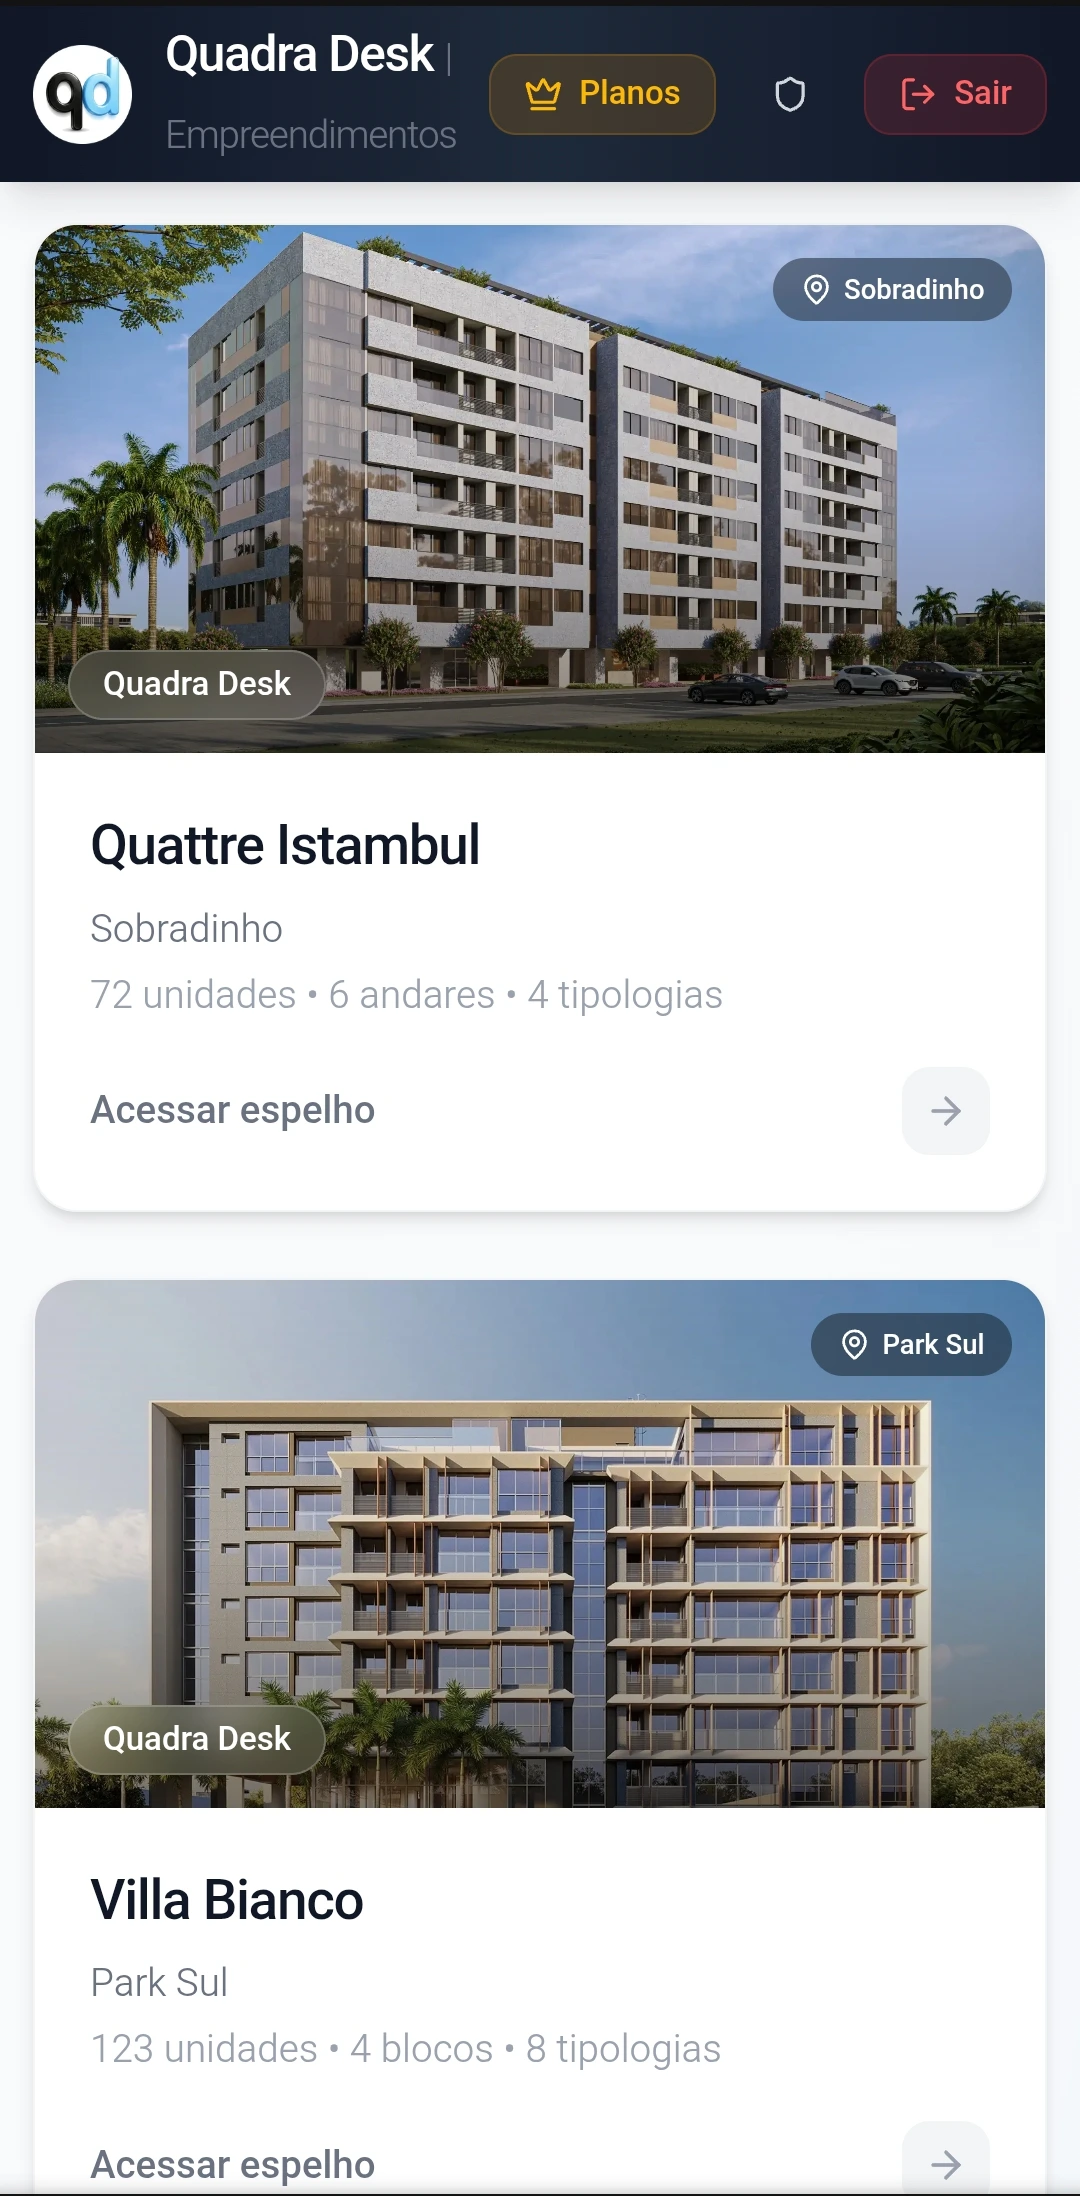
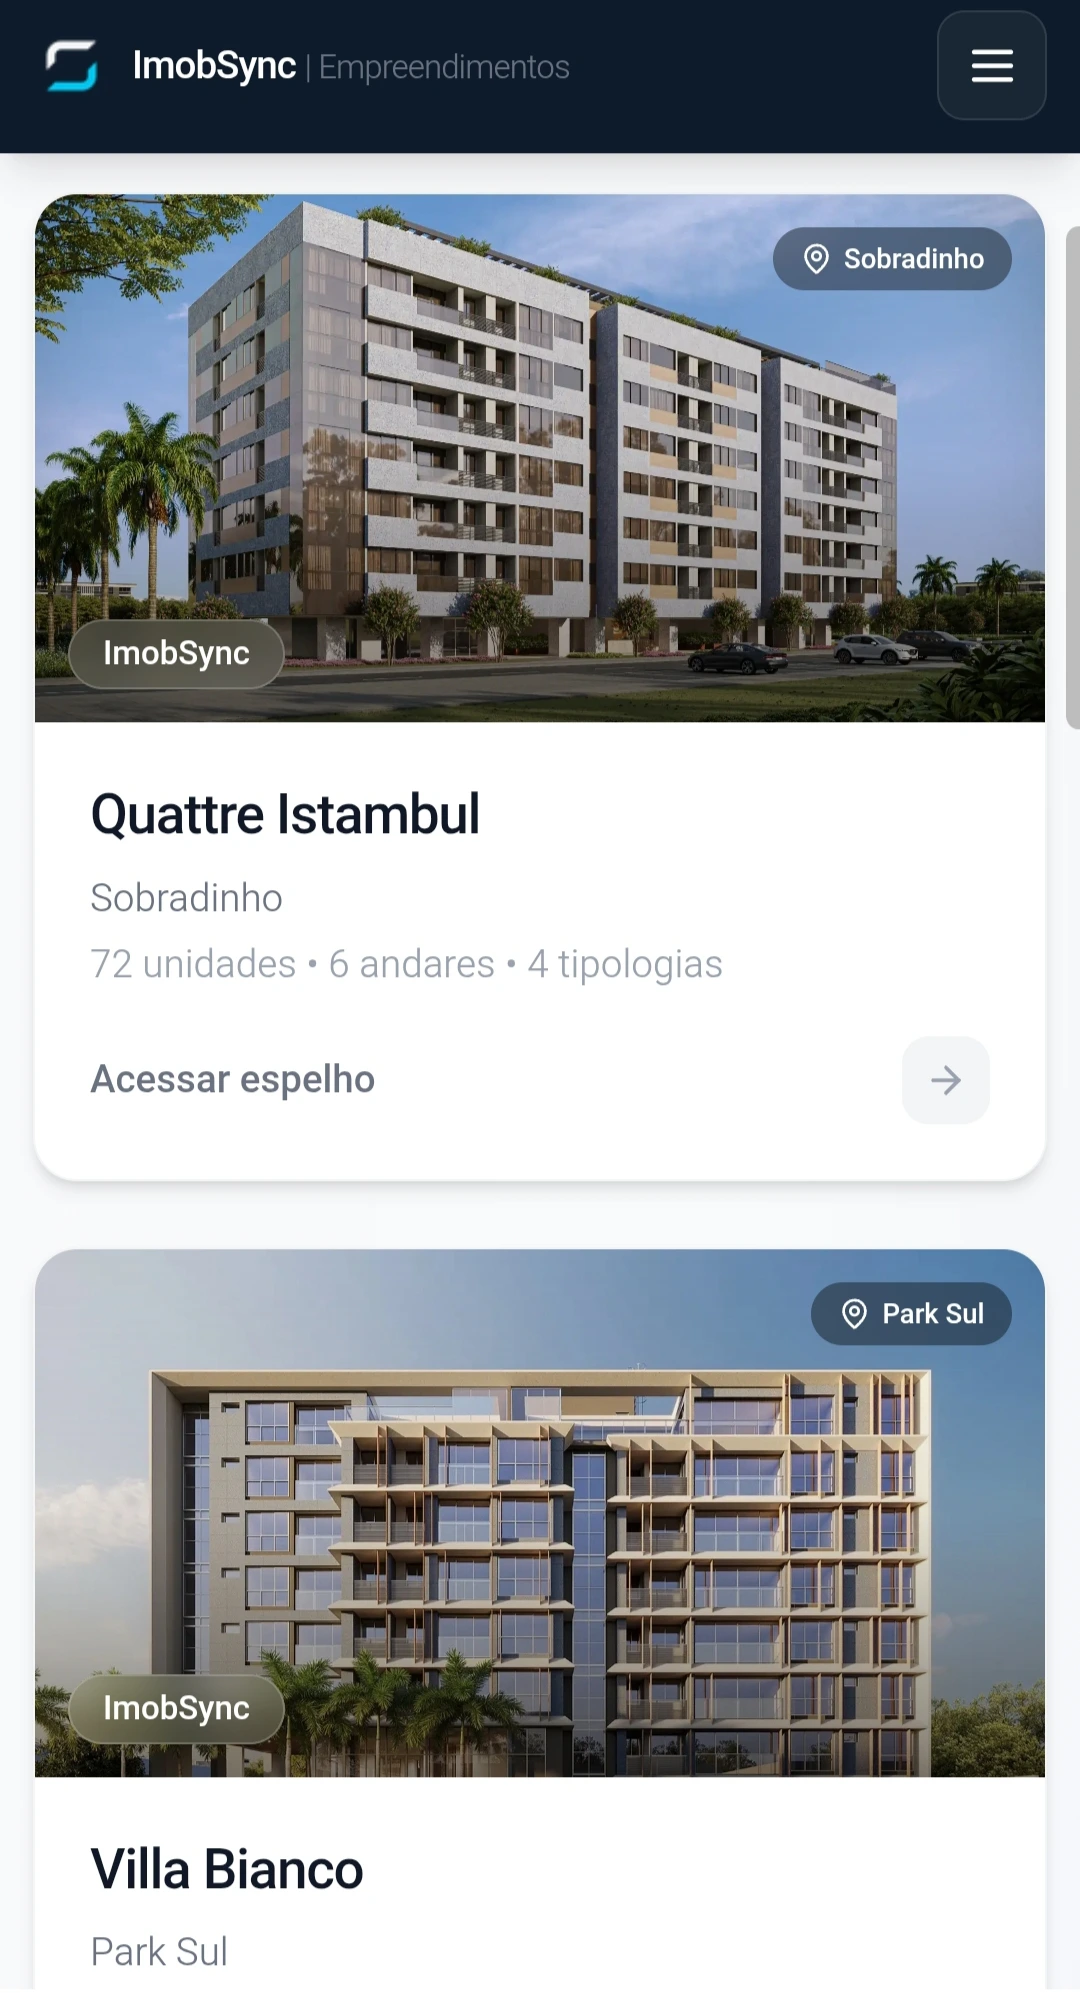
feat: update login page mock images and add 4th slide
- Replace desktop mocks with new webp versions
- Replace mobile mocks with updated versions
- Add 4th carousel slide (mobile - real-time sales management)
- Remove old .png desktop mock files

diff --git a/src/app/page.tsx b/src/app/page.tsx
@@ -18,7 +18,7 @@ import {
 const slides = [
   {
     type: "desktop" as const,
-    image: "/mock-desktop-01.png",
+    image: "/mock-desktop-01.webp",
     title: "Espelho de vendas atualizado em tempo real",
     desc: "Disponibilidade, status e preços de todas as unidades ao seu alcance, direto do computador.",
   },
@@ -30,9 +30,15 @@ const slides = [
   },
   {
     type: "desktop" as const,
-    image: "/mock-desktop-02.png",
+    image: "/mock-desktop-02.webp",
     title: "Simule e gere propostas em PDF",
     desc: "Crie simulações de pagamento personalizadas e exporte a proposta pronta para envio ao cliente.",
+  },
+  {
+    type: "mobile" as const,
+    image: "/mock-mobile-02.webp",
+    title: "Gerencie vendas em tempo real",
+    desc: "Atualize status de unidades, acompanhe reservas e feche vendas direto pelo celular.",
   },
 ];
 
